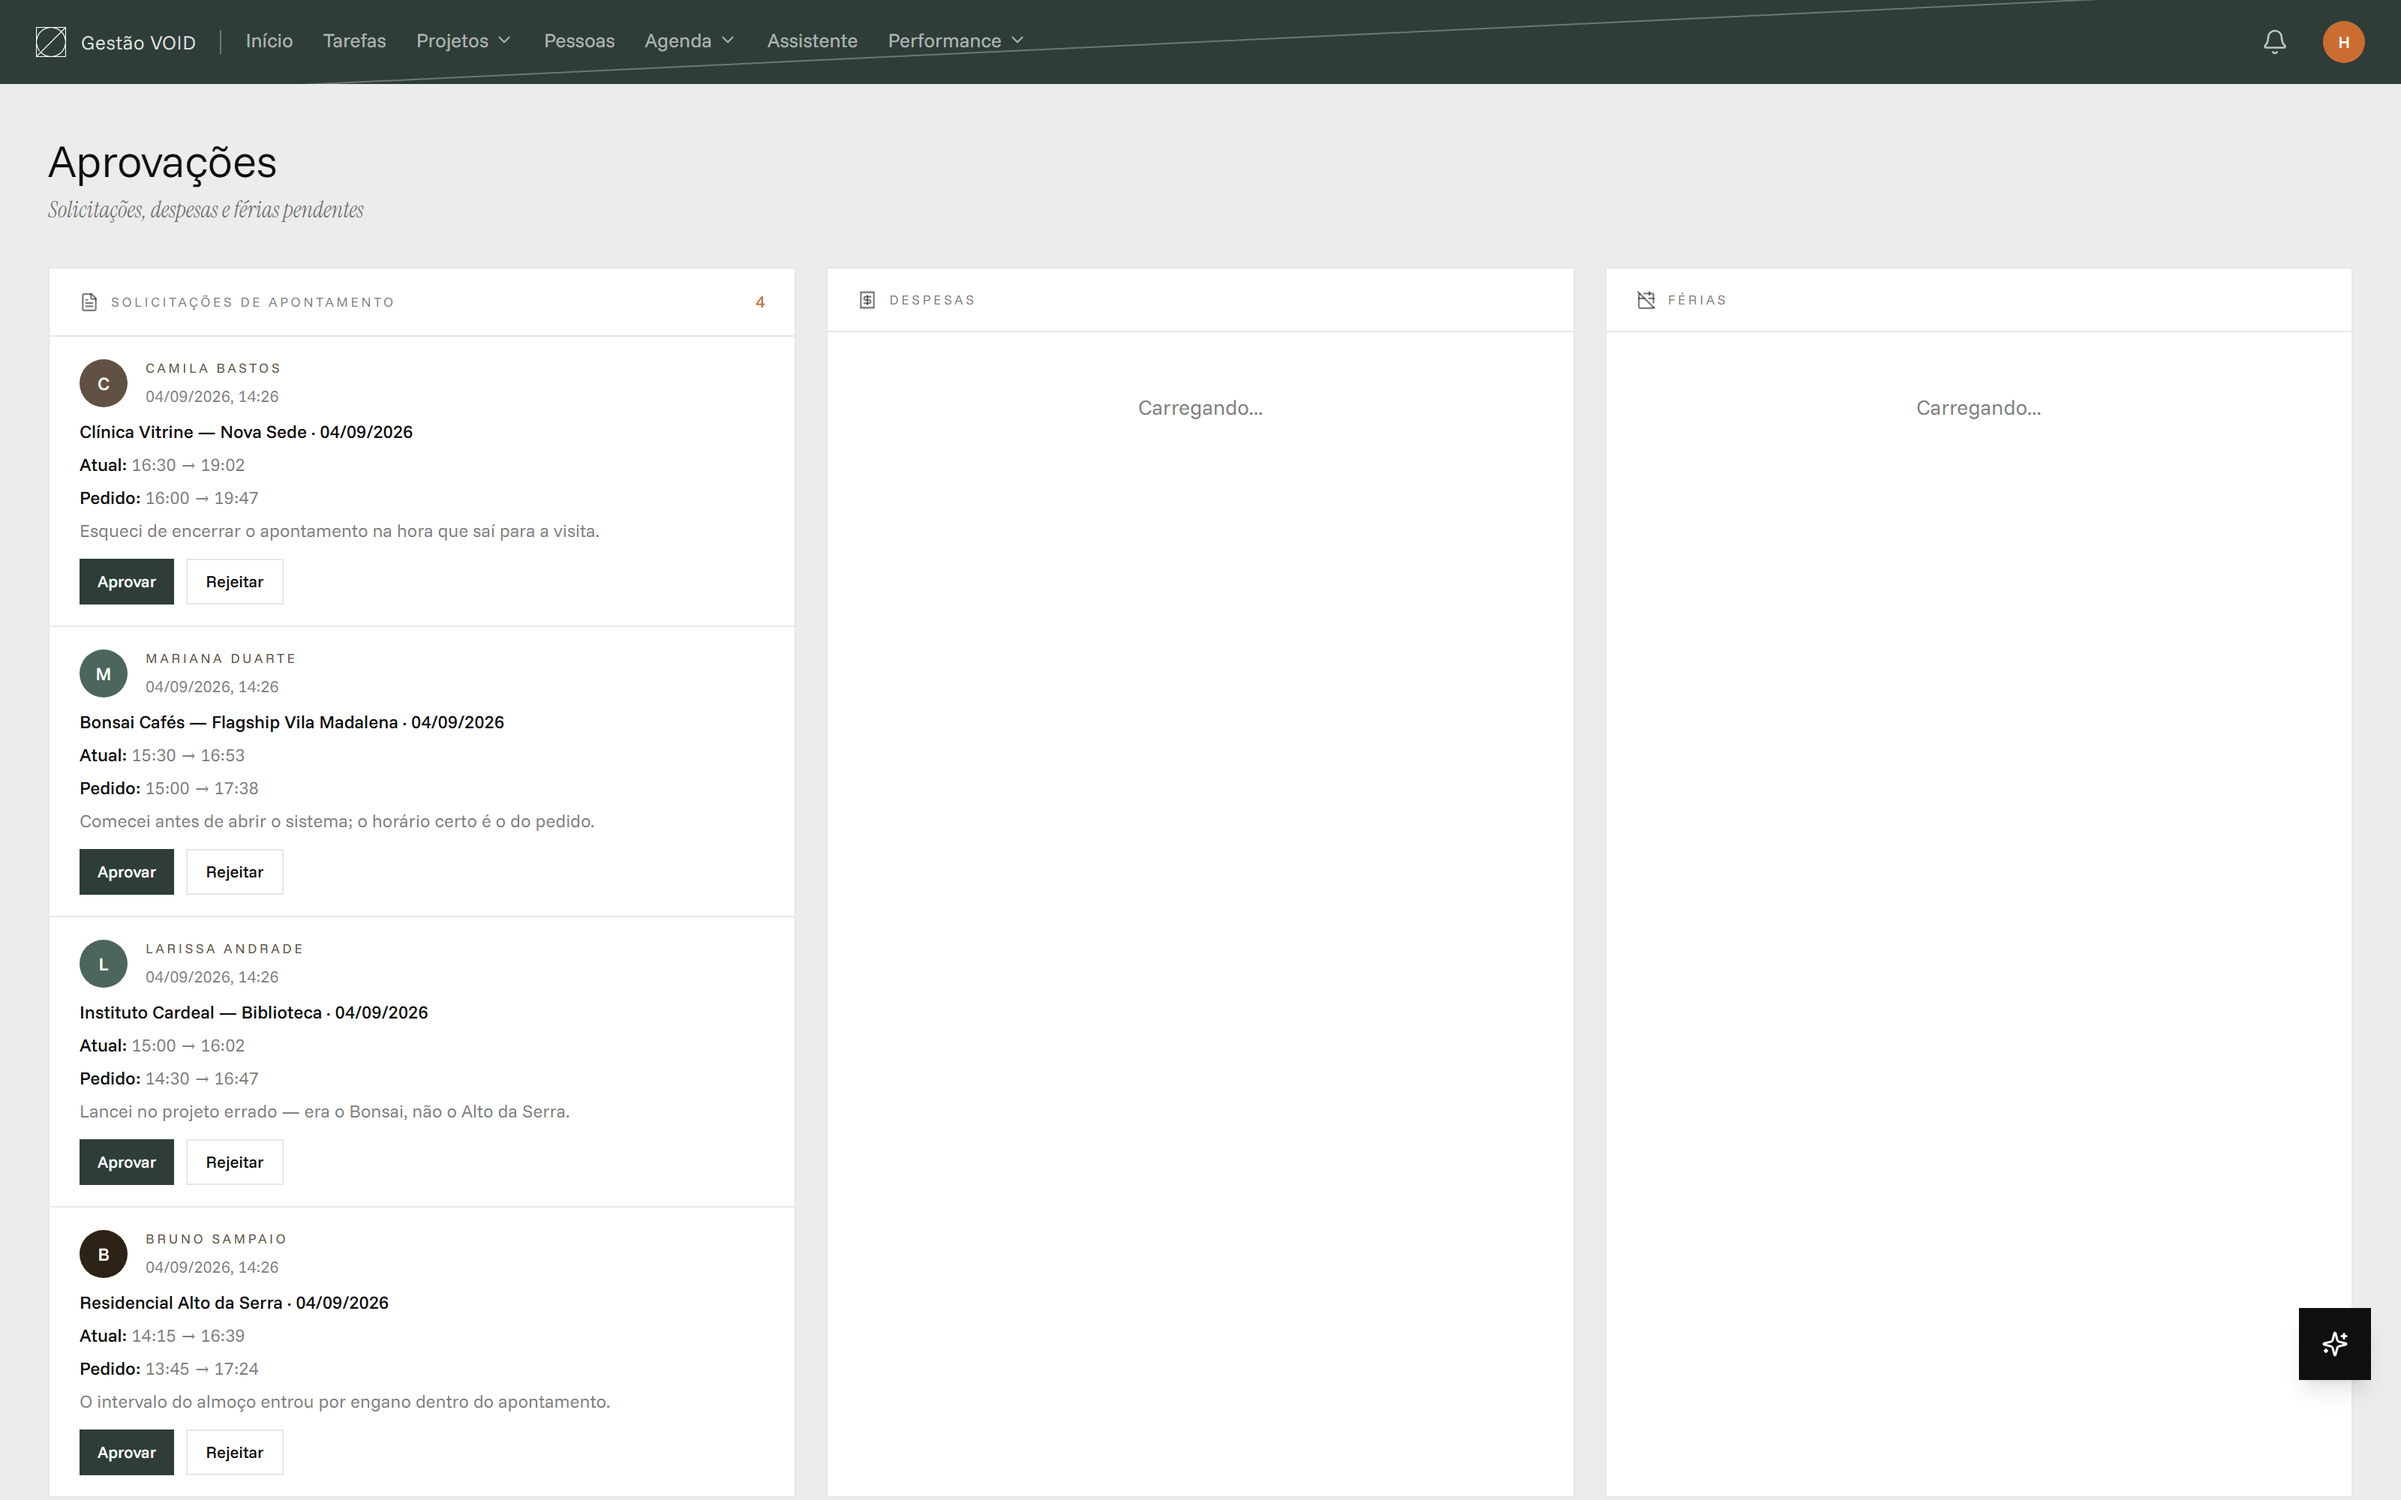
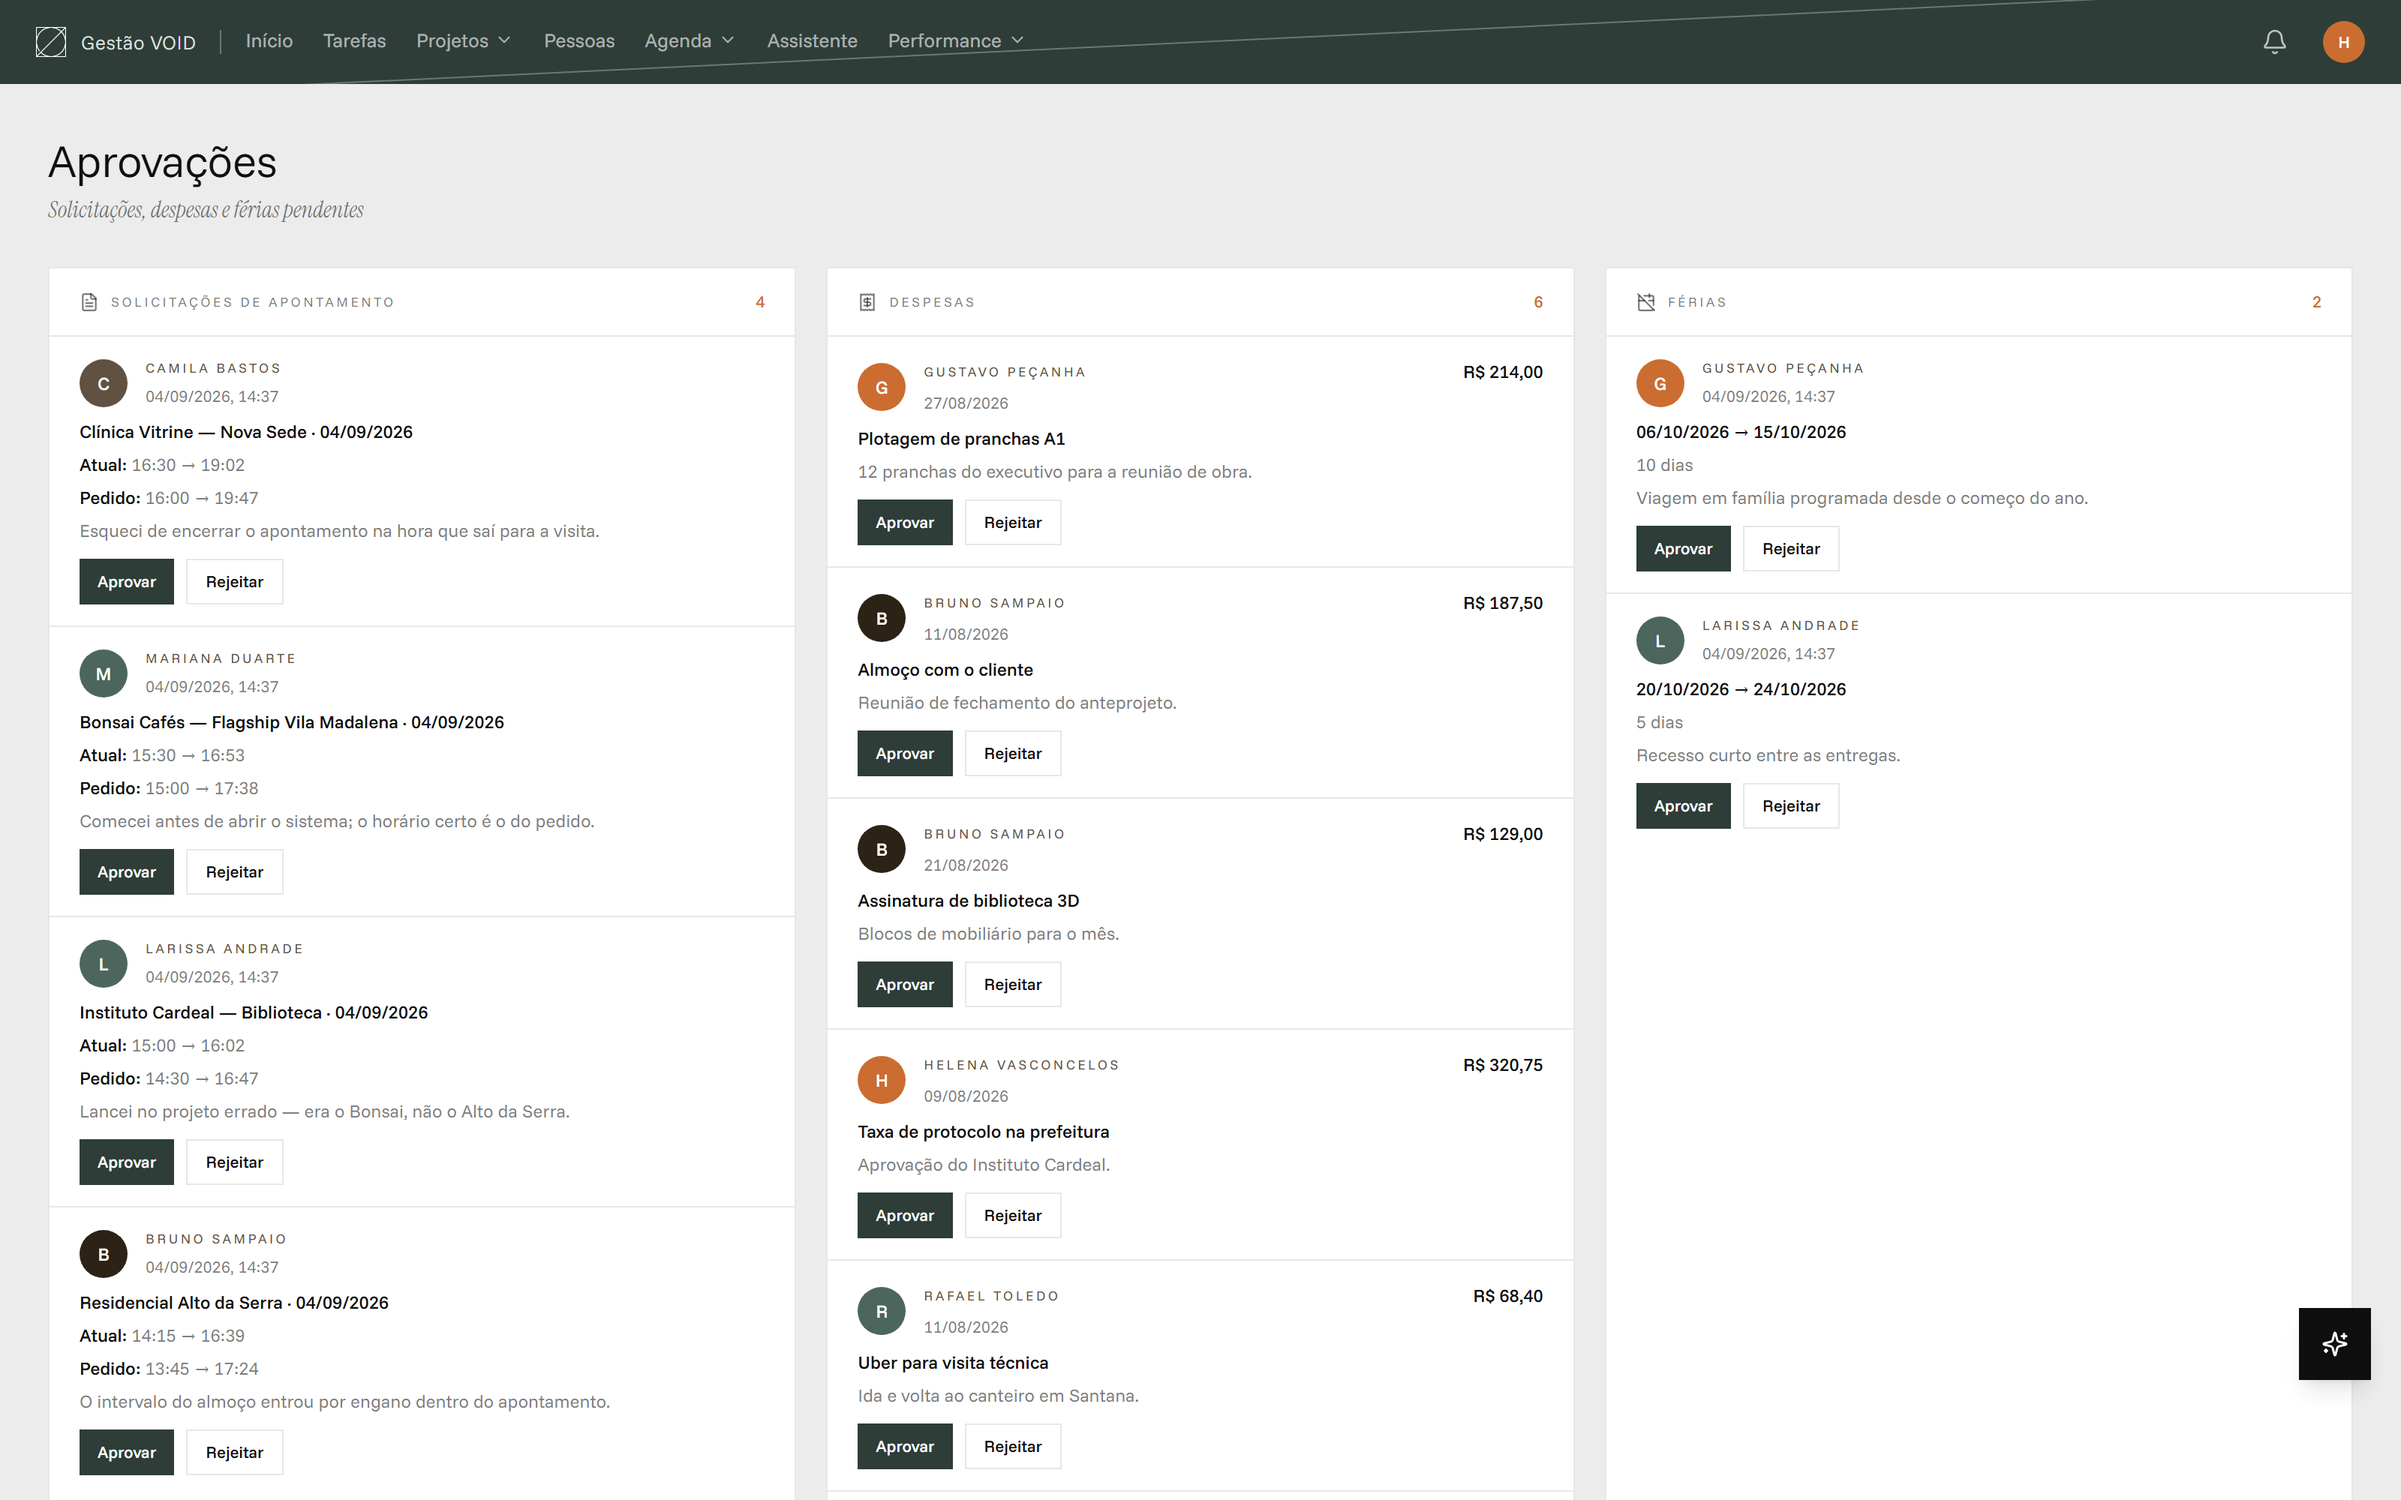
Office Timesheet: mais 6 prints e o levantamento do projeto
Fecha em 13 prints (colaborador + admin), todos conferidos um a um: nenhum
nome, e-mail ou empresa real. O seed trunca as tabelas antes de escrever, então
os dados de teste que estavam no volume não sobreviveram.

O levantamento em docs/levantamentos/ é a matéria-prima do texto do projeto:
o que o sistema faz sem jargão, os números contados (1.452 casos de teste, 148
endpoints, 56 migrations), a stack e as notas de engenharia candidatas ao
bloco técnico.

Claude-Session: https://claude.ai/code/session_019M5BQqchDEaH7nrJoVHUaT

diff --git a/scripts/seed-office-timesheet.js b/scripts/seed-office-timesheet.js
@@ -403,6 +403,48 @@ async function main() {
     }
     contagem.pedidos_de_correcao = candidatos.length
 
+    // ── Cronômetro por tarefa ───────────────────────────────────────────────
+    // Alimenta "Tipos de tarefa mais feitas" (agrupado por etapa) na tela de
+    // Performance e o nome da tarefa no Painel Live.
+    const { rows: tarefasComEtapa } = await client.query(
+      `SELECT t.id, t.assignee_id FROM tasks t WHERE t.assignee_id IS NOT NULL`,
+    )
+    let nLogs = 0
+    for (const t of tarefasComEtapa) {
+      const quantos = int(1, 3)
+      for (let i = 0; i < quantos; i++) {
+        // Metade no mês corrente (a tela de Performance só olha o mês aberto),
+        // metade nos meses anteriores para o histórico ter lastro.
+        const dia = rnd() < 0.5
+          ? new Date(ANO, MES, int(1, HOJE.getDate()))
+          : new Date(ANO, MES, int(-45, 0))
+        if (!ehDiaUtil(dia)) continue
+        const dur = int(25, 150)
+        const ini = em(dia, int(9, 16), pick([0, 15, 30, 45]))
+        await client.query(
+          `INSERT INTO task_time_logs (task_id, user_id, started_at, ended_at, duration_minutes)
+           VALUES ($1,$2,$3,$4,$5)`,
+          [t.id, t.assignee_id, ini.toISOString(),
+            new Date(ini.getTime() + dur * 60000).toISOString(), dur],
+        )
+        nLogs++
+      }
+    }
+    contagem.cronometros_de_tarefa = nLogs
+
+    // ── Simulador de performance ────────────────────────────────────────────
+    // Sem uma meta salva, a metade de baixo da tela de Performance fica vazia.
+    const ym = `${ANO}-${String(MES + 1).padStart(2, '0')}`
+    for (const p of apontadores) {
+      await client.query(
+        `INSERT INTO performance_simulations (user_id, ym, planned)
+         VALUES ($1,$2,$3::jsonb)
+         ON CONFLICT (user_id, ym) DO UPDATE SET planned = EXCLUDED.planned`,
+        [users[p.nome].id, ym, JSON.stringify({ target_amount: p.meta, overrides: {} })],
+      )
+    }
+    contagem.simulacoes = apontadores.length
+
     // ── Despesas ────────────────────────────────────────────────────────────
     const statusDespesa = ['pending', 'pending', 'approved', 'approved', 'rejected']
     let nDespesas = 0
@@ -446,7 +488,10 @@ async function main() {
     const pedidosFerias = [
       { pessoa: 'Gustavo Peçanha', ini: new Date(ANO, MES + 1, 6), dias: 10, st: 'pending', motivo: 'Viagem em família programada desde o começo do ano.' },
       { pessoa: 'Larissa Andrade', ini: new Date(ANO, MES + 1, 20), dias: 5, st: 'pending', motivo: 'Recesso curto entre as entregas.' },
-      { pessoa: 'Bruno Sampaio', ini: new Date(ANO, MES - 1, 10), dias: 15, st: 'approved', motivo: 'Férias regulares do período aquisitivo.' },
+      // Uma férias APROVADA dentro do mês corrente: sem ela o calendário da
+      // Agenda abre praticamente vazio.
+      { pessoa: 'Bruno Sampaio', ini: new Date(ANO, MES, 8), dias: 12, st: 'approved', motivo: 'Férias regulares do período aquisitivo.' },
+      { pessoa: 'Isabela Moreira', ini: new Date(ANO, MES, 16), dias: 8, st: 'approved', motivo: 'Recesso escolar.' },
       { pessoa: 'Camila Bastos', ini: new Date(ANO, MES + 2, 3), dias: 20, st: 'approved', motivo: 'Férias acumuladas do ano passado.' },
       { pessoa: 'Thiago Nakamura', ini: new Date(ANO, MES, 22), dias: 7, st: 'rejected', motivo: 'Semana de entrega do executivo do Alto da Serra.' },
     ]

diff --git a/docs/levantamentos/office-timesheet.md b/docs/levantamentos/office-timesheet.md
@@ -1,0 +1,126 @@
+# Office Timesheet — levantamento
+
+Data: 2026-09-04. Matéria-prima para `content/projetos/office-timesheet.ts`.
+Sistema fechado: entra no portfólio com prints e texto, **sem link público**.
+
+## O que é, em linguagem de usuário
+
+O sistema interno de um escritório de arquitetura para saber onde o tempo da
+equipe foi parar e quanto cada projeto custou. Antes disso, planilha.
+
+Três coisas na prática:
+
+1. **Marcar hora por projeto sem planilha.** Abre o projeto, clica em "Apontar
+   horas", o cronômetro roda, pausa no almoço, retoma, encerra. O valor/hora
+   congela no momento do apontamento — mudança de salário depois não reescreve
+   o custo do que já passou.
+2. **Tocar os projetos.** Cada um tem etapas (Levantamento → Estudo Preliminar
+   → Anteprojeto → Executivo) e um quadro Kanban de tarefas com responsável,
+   prazo e cronômetro por tarefa.
+3. **Fechar o mês.** O admin vê quanto a equipe trabalhou e quanto cada projeto
+   custou, e aprova numa fila só as três coisas que precisam de gente: correção
+   de ponto, reembolso de despesa e pedido de férias.
+
+Mais três que ampliam o escopo além de folha de ponto: cadastro de pessoas
+unificado (colaboradores, clientes e fornecedores juntos), agenda que junta
+férias, feriados, prazos e o Google Calendar de cada um, e um assistente
+conversacional que responde sobre os dados e propõe ações que a pessoa aprova.
+
+Detalhe de produto que vale contar: **o assistente não é um canal
+privilegiado.** Cada pessoa alcança por ele exatamente o que alcançaria
+navegando o site. A régua de permissão é a mesma.
+
+## Números
+
+| Métrica | Valor |
+|---|---|
+| Casos de teste | **1.452** (1.119 API + 333 web) |
+| Arquivos de teste | 213 |
+| Endpoints HTTP | 148 |
+| Migrations SQL | 56 |
+| Tabelas no banco | 40 |
+| Páginas React | 26 (3 públicas + 13 colaborador + 10 admin) |
+| Componentes React | 40 |
+| Tools do assistente | 34 (17 leitura + 15 escrita + SQL ad-hoc + meta) |
+
+Os 1.452 casos de teste são o número mais forte para o card. Suíte de
+integração roda contra Postgres real no CI.
+
+## Stack
+
+**Backend** (ESM, Node 20): Express 5, `pg`, JWT, bcrypt, Multer, AWS SDK S3,
+Resend, Pino + Axiom, OpenAI SDK, `node-sql-parser`, ExcelJS/PDFKit. Vitest +
+Supertest.
+
+**Frontend**: React 19, Vite 6, React Router 7, Tailwind 3, date-fns,
+react-markdown + rehype-sanitize. Vitest + Testing Library.
+
+**Banco**: PostgreSQL 16 local, Fly Postgres Flex 18 em produção.
+
+**Deploy**: 3 apps no Fly.io (região `iad`) — API, frontend estático por Caddy,
+cluster Postgres. GitHub Actions num workflow só: matriz de lint/build → testes
+de integração contra Postgres de serviço → `flyctl deploy`. Push em `main`
+publica.
+
+## Notas de engenharia (candidatas ao bloco técnico)
+
+- **Integridade no banco, não só no código.** Índice único parcial garantindo um
+  apontamento aberto por pessoa, `EXCLUDE` barrando férias sobrepostas, um
+  pedido pendente por apontamento, `ON DELETE RESTRICT` em
+  `time_entries → projects`. A regra de negócio vive onde não dá para burlar.
+- **Sessão invalidável sem trocar o segredo global.** JWT HS256 de 7 dias com
+  `sessions_valid_after` na tabela `users`: dá para derrubar todas as sessões de
+  uma pessoa sem afetar ninguém.
+- **Autorização em camadas.** 4 papéis e 6 middlewares dedicados, com a mesma
+  régua replicada no `ProtectedRoute` do front.
+- **Assistente com trilha de auditoria.** Toda escrita passa por proposta que o
+  usuário aprova; cada resposta declara no rodapé quais leituras a produziram;
+  custo por chamada logado em USD com teto diário por pessoa; SQL ad-hoc só via
+  role Postgres somente-leitura dedicada.
+- **Observabilidade com cuidado de percentil.** Log JSON por request com
+  `req_id`, enviado ao Axiom. SSE tratado separado — conexão longa vira
+  `stream_encerrado` com duração própria, para não dominar o p95 da API.
+  Usuário identificado por id numérico, nunca por e-mail.
+
+## Prints
+
+13 arquivos em `public/prints/office-timesheet/`, PNG 3200×2000 (viewport
+1600×1000 em DPR 2). Todos conferidos: nenhum nome, e-mail ou empresa real.
+
+`01-dashboard-colaborador` · `02-registro-horas-projetos` · `03-tarefas-kanban`
+· `04-projeto-etapas-e-quadro` · `05-historico-apontamentos` ·
+`06-performance-colaborador` · `07-agenda-equipe` · `08-dashboard-admin` ·
+`09-pessoas` · `10-apontamentos-da-equipe` · `11-aprovacoes` ·
+`12-painel-ao-vivo` · `13-relatorio-financeiro`
+
+Falta um print do `/assistente`: sem chamada real ao provedor a tela sai vazia,
+e fazer uma pergunta de verdade gasta a chave paga. Se quiser esse print, é
+logar, perguntar e capturar.
+
+Os cards de projeto aparecem com miniatura cinza porque o upload de imagem
+depende do Tigris/S3, vazio no ambiente local.
+
+## Como reproduzir
+
+```bash
+cd ../office-timesheet && docker compose up -d
+cd src && npm run migrate
+cd ../../portfolio && node scripts/seed-office-timesheet.js
+```
+
+O seed é reexecutável: trunca as 39 tabelas de aplicação e reescreve tudo, com
+PRNG de semente fixa — rodar de novo dá exatamente os mesmos números.
+
+Volume: 9 usuários, 6 clientes, 6 projetos, 31 etapas, 50 tarefas, 671
+apontamentos (mês corrente + 2 anteriores), 87 cronômetros de tarefa, 14
+despesas, 6 bônus, 6 pedidos de férias, 4 correções de ponto.
+
+Empresa fictícia **Studio Aurora Arquitetura**, senha de todos `portfolio123`.
+Para ver a interface completa entre com `helena.vasconcelos@studioaurora.com.br`
+(admin).
+
+## Achado colateral
+
+O `README.md` do office-timesheet está desatualizado: descreve o sistema como
+"controle de horas + dashboard" e não menciona Kanban, etapas, pessoas, agenda,
+férias, despesas, bônus nem o assistente — que são metade do produto hoje.
